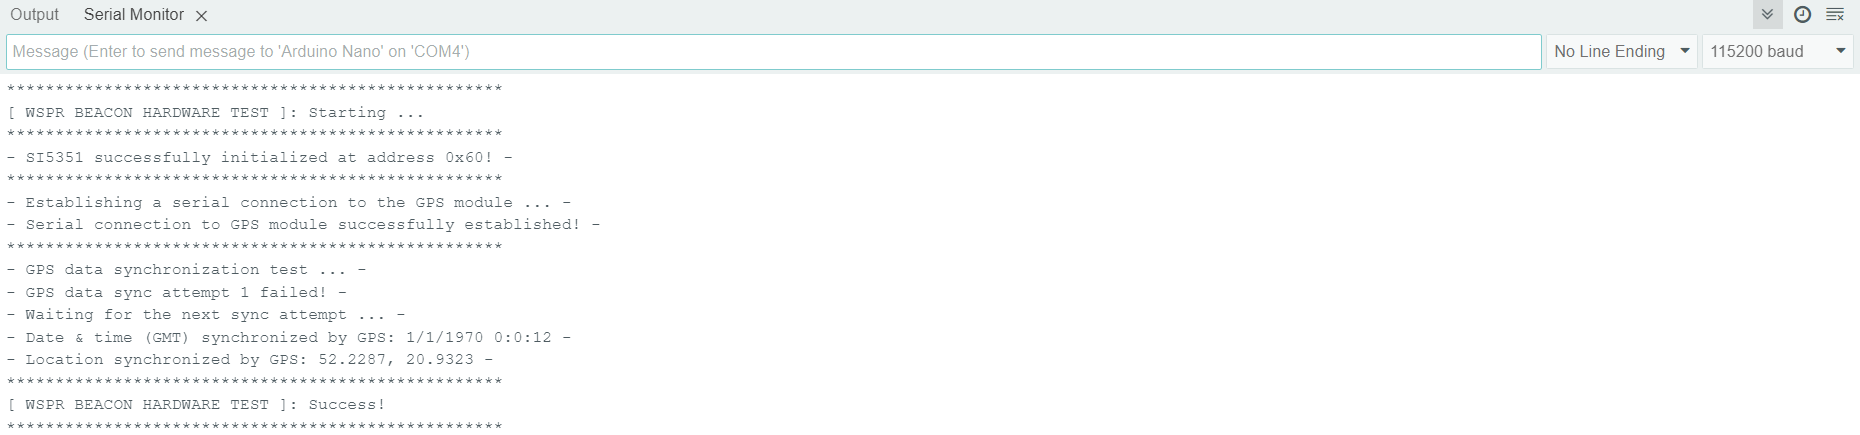
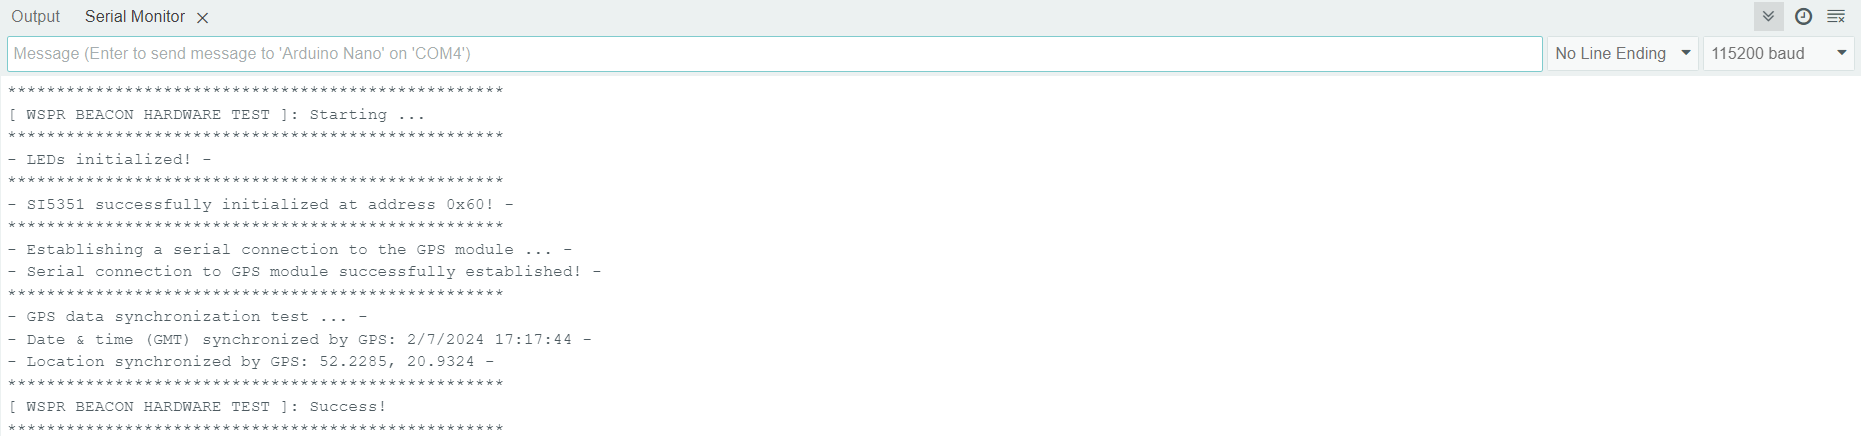
Add LED notification info

diff --git a/Firmware/README.md b/Firmware/README.md
@@ -12,7 +12,7 @@ After assembling the device, you can upload [firmware for testing the hardware](
 > [!NOTE]
 >This is an optional step, you can skip it. I recommend using this firmware if you encounter issues with the device's functionality when using the main wspr-beacon firmware.
 
-This firmware checks the correctness of the SI5351 IC initialization, the correctness of the serial connection with the GPS module, and the correctness of GPS data synchronization.
+This firmware checks the correctness of the LEDs initialization (_visual inspection_), SI5351 IC initialization, the correctness of the serial connection with the GPS module, and GPS data synchronization.
 
 To get a report on the hardware functionality, upload the firmware, open the "_Tools_" -> "_Serial Monitor_" in the Arduino IDE, and turn on the device.
 
